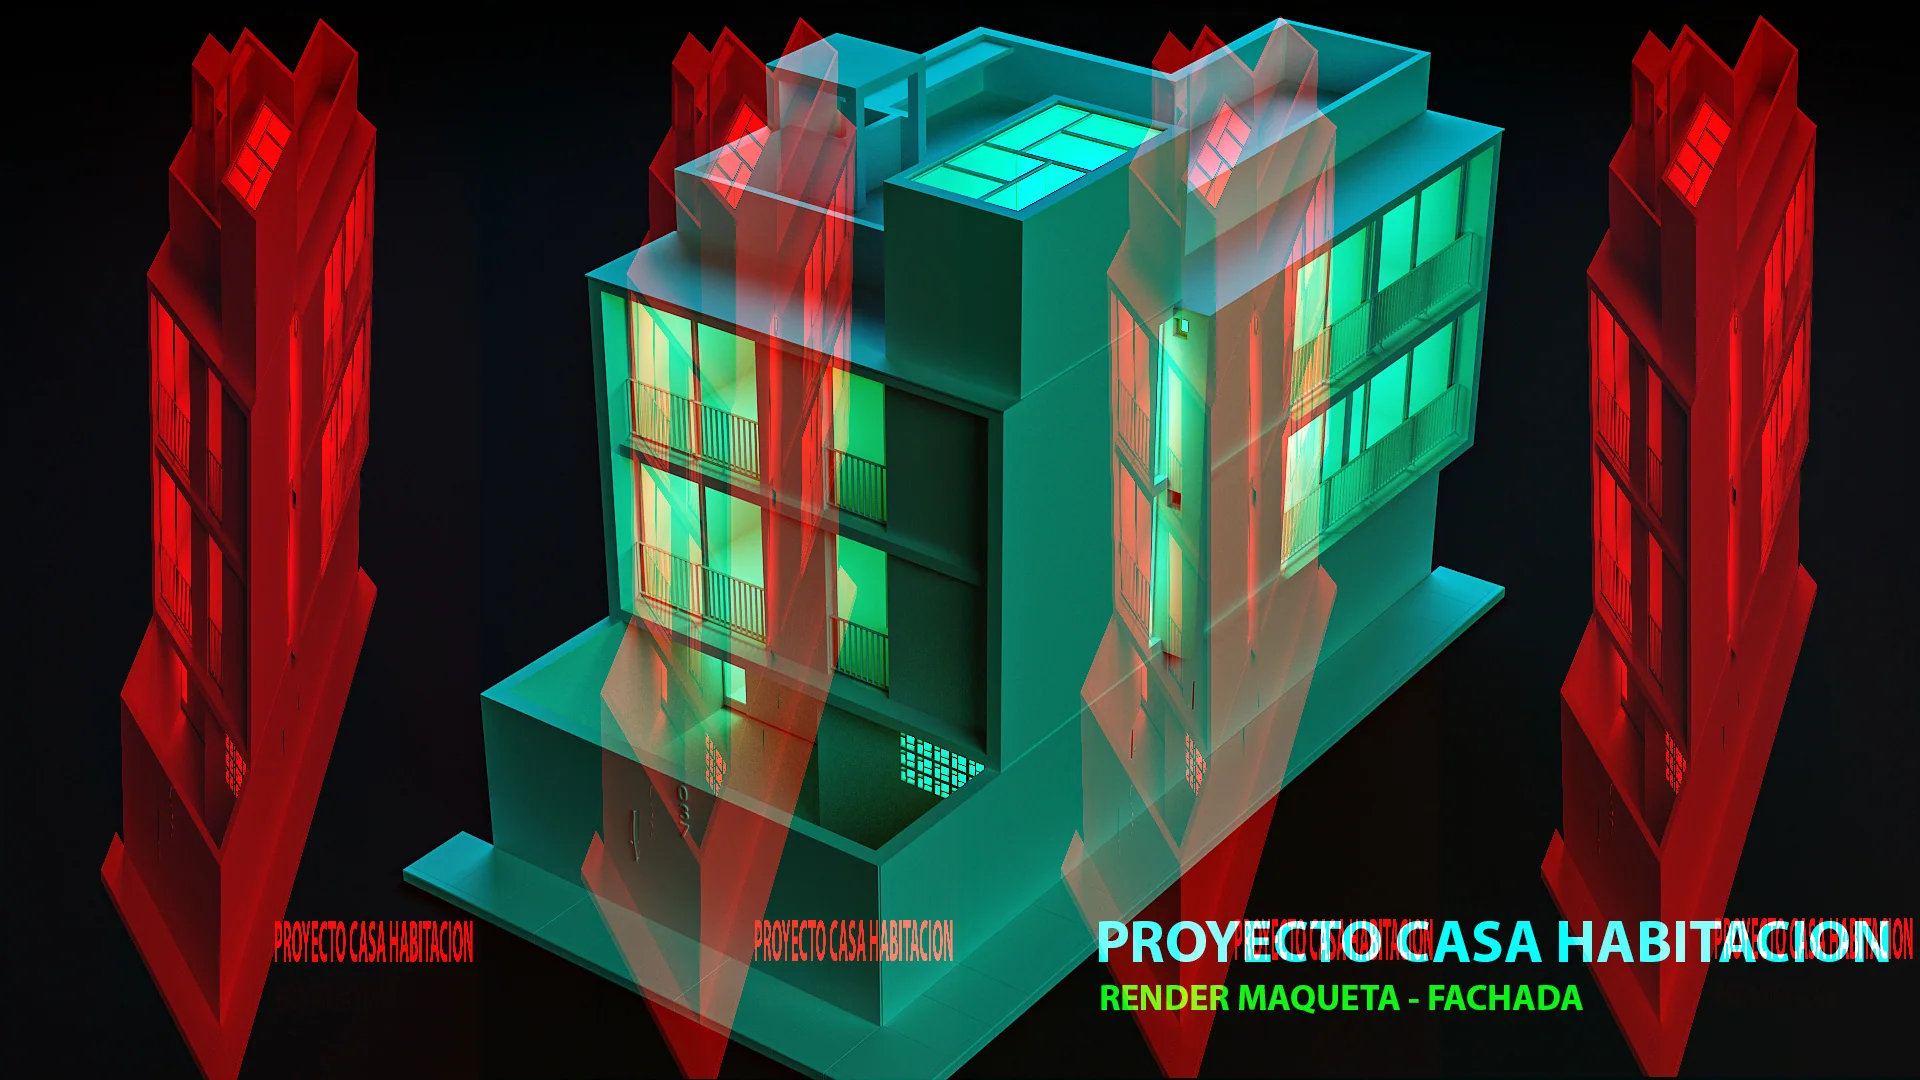
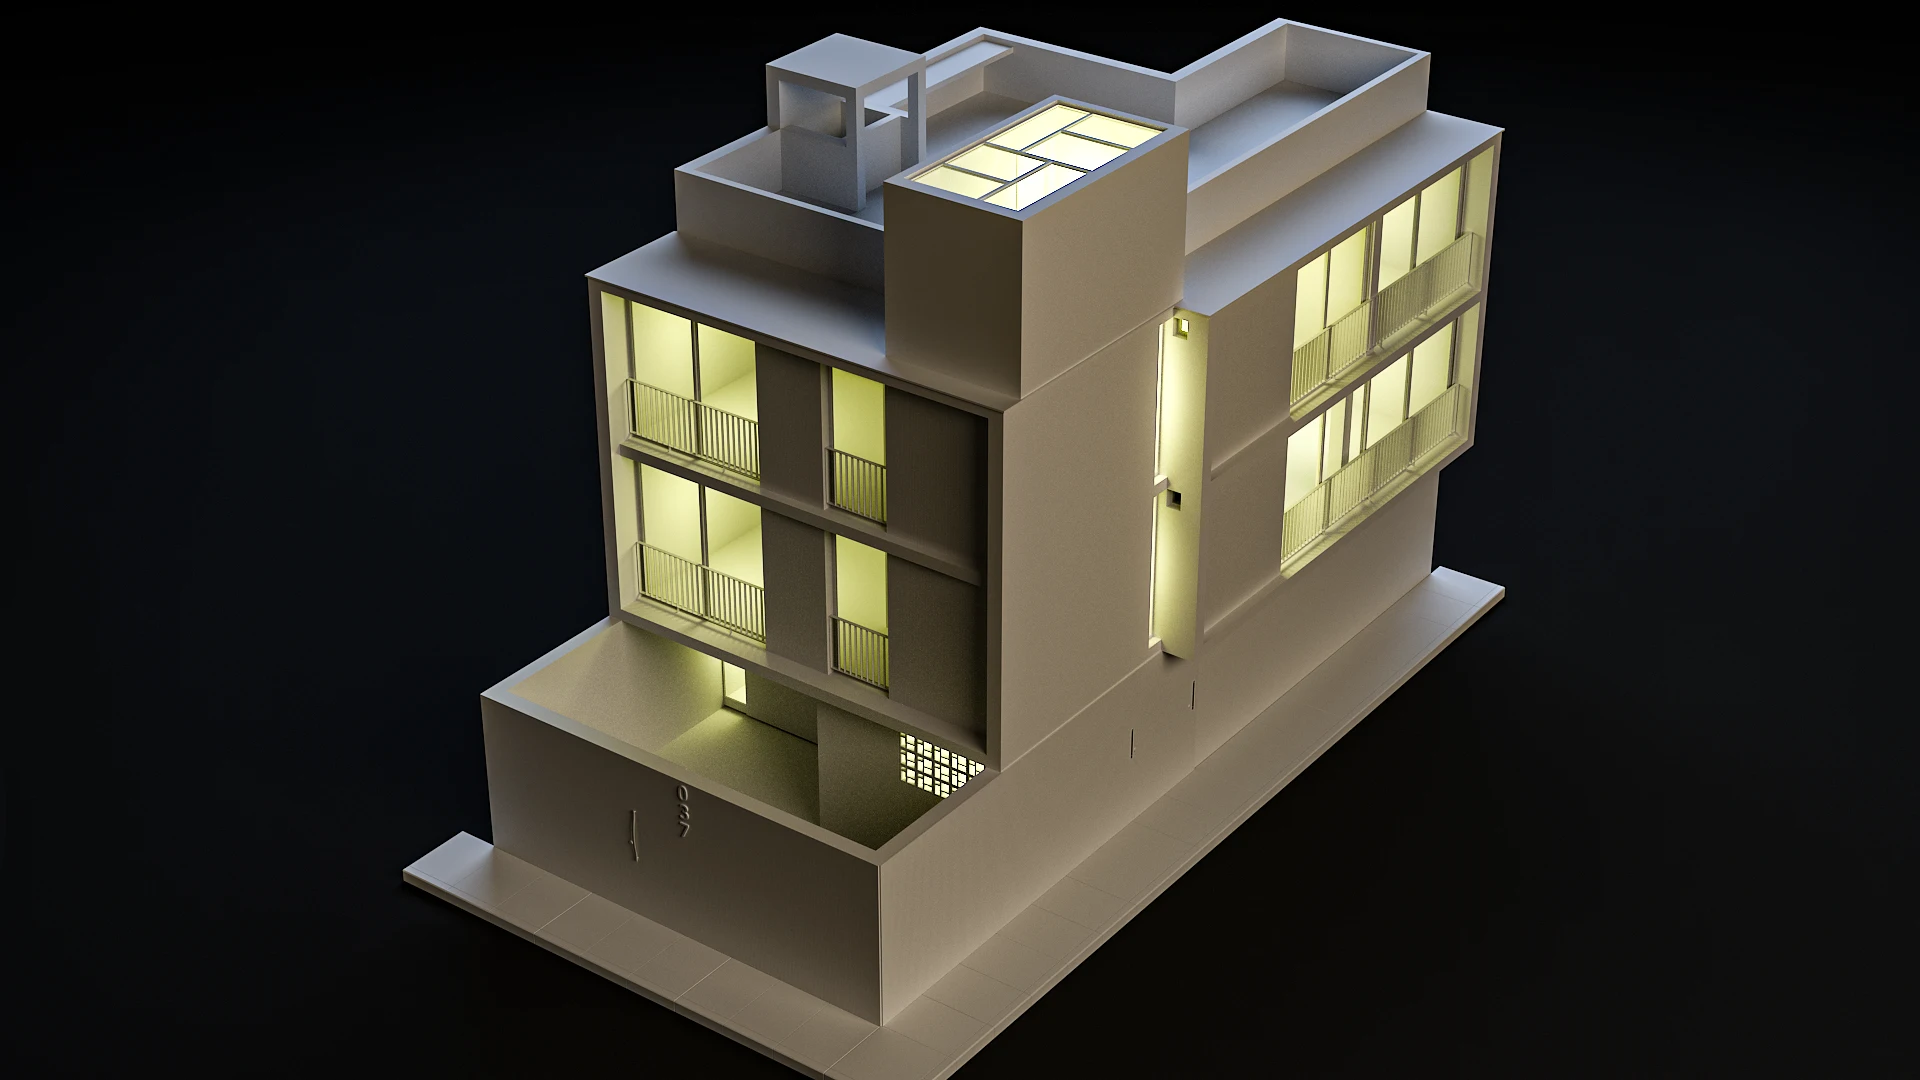
Actualización del portafolio

diff --git a/index.html b/index.html
@@ -4,12 +4,12 @@
   <meta charset="utf-8">
   <meta name="viewport" content="width=device-width, initial-scale=1, viewport-fit=cover">
   <meta name="theme-color" content="#dce9ed">
-  <meta name="description" content="Arq. Luis Ángel García. Arquitectura funcional, diseño de viviendas, casas de campo, proyectos ejecutivos, visualización realista y seguimiento de inversiones.">
+  <meta name="description" content="Arq. Luis Ángel García. Arquitectura para vivir, diseño de viviendas, casas de campo, proyectos ejecutivos, visualización realista y seguimiento de inversiones.">
   <meta property="og:type" content="website">
-  <meta property="og:title" content="arqluisgarcia | Arquitectura funcional">
+  <meta property="og:title" content="arqluisgarcia | Arquitectura para vivir">
   <meta property="og:description" content="Espacios bien pensados, soluciones que funcionan. Conoce proyectos y servicios del Arq. Luis Ángel García.">
   <meta property="og:image" content="assets/casa-jardin/01.webp">
-  <title>arqluisgarcia — Arquitectura funcional</title>
+  <title>arqluisgarcia — Arquitectura para vivir</title>
   <link rel="icon" href="favicon.svg" type="image/svg+xml">
   <link rel="stylesheet" href="styles.css">
   <script src="project-data.js" defer></script>
@@ -20,7 +20,7 @@
   <header class="site-header" id="arriba">
     <a class="brand" href="index.html" aria-label="arqluisgarcia, ir al inicio">
       <span class="brand-mark">LG<span class="brand-line"></span></span>
-      <span class="brand-copy"><strong>Luis Ángel García</strong><small>ARQUITECTURA FUNCIONAL</small></span>
+      <span class="brand-copy"><strong>Luis Ángel García</strong><small>ARQUITECTURA PARA VIVIR</small></span>
     </a>
     <nav class="desktop-nav" aria-label="Navegación principal">
       <a href="#proyectos">Proyectos</a><a href="#enfoque">Enfoque</a><a href="#servicios">Servicios</a><a href="#seguimiento">Inversiones</a><a href="#contacto">Contacto</a>
@@ -61,8 +61,8 @@
     </section>
 
     <section class="manifesto" id="enfoque">
-      <div class="manifesto-top"><span class="eyebrow eyebrow-light">02 / SOBRE MÍ</span><span>LG — ARQUITECTURA FUNCIONAL</span></div>
-      <div class="manifesto-grid"><h2>Diseñar no es<br><em>ocupar todo.</em></h2><div><p>Soy el Arq. Luis Ángel García. Desarrollo propuestas arquitectónicas, planos, modelados y visualizaciones, priorizando la circulación, iluminación, ventilación, privacidad y aprovechamiento real de cada ambiente.</p><p>No siempre necesitas construir más. Una buena distribución puede dar amplitud a los espacios que ya tienes.</p><a href="#soluciones" class="light-link">Conoce mi enfoque <span aria-hidden="true">↗</span></a></div></div>
+      <div class="manifesto-top"><span class="eyebrow eyebrow-light">02 / SOBRE MÍ</span><span>LG — ARQUITECTURA PARA VIVIR</span></div>
+      <div class="manifesto-grid"><h2>Diseñar no es<br><em>ocupar todo.</em></h2><div><p>Soy el Arq. Luis Ángel García. Diseño viviendas para que, al volver del trabajo, puedas desconectarte de la rutina y sentir que estás en otro lugar.</p><p>No siempre necesitas construir más. Con una buena distribución, tu casa puede sentirse más amplia y cómoda.</p><a href="#soluciones" class="light-link">Conoce mi enfoque <span aria-hidden="true">↗</span></a></div></div>
       <div class="manifesto-tags"><span>01. FUNCIONALIDAD</span><span>02. PROPORCIÓN</span><span>03. LUZ NATURAL</span><span>04. VIDA COTIDIANA</span></div>
     </section>
 
@@ -84,9 +84,13 @@
 
     <section class="section advisory" id="asesoria"><div><p class="eyebrow">05 / ASESORÍA ONLINE</p><h2>Una idea puede empezar<br><em>con una conversación.</em></h2></div><div class="advisory-right"><p>Envíame fotografías, medidas, planos o un croquis. Revisaremos la necesidad y definiremos el alcance antes de desarrollar una propuesta arquitectónica.</p><div class="steps"><div><span>01</span>Cuéntame qué necesitas</div><div><span>02</span>Comparte medidas y fotografías</div><div><span>03</span>Definimos alcance y presupuesto</div><div><span>04</span>Desarrollamos la propuesta acordada</div></div><p class="small-note">La asesoría inicial no sustituye una evaluación estructural o una visita técnica cuando sea necesaria.</p><a class="text-link" href="https://wa.me/51942263803?text=Hola%2C%20quiero%20consultar%20una%20asesor%C3%ADa%20arquitect%C3%B3nica." target="_blank" rel="noopener noreferrer">Consultar por WhatsApp ↗</a></div></section>
 
-    <section class="investments" id="seguimiento"><div class="investments-head"><p class="eyebrow eyebrow-light">06 / GESTIÓN TÉCNICA</p><h2>Seguimiento de proyectos<br><em>e inversiones públicas.</em></h2><p>Información técnica y presupuestal para conocer el estado de proyectos y obras.</p></div><div class="investment-items"><div><span>01</span><strong>Seguimiento físico y financiero</strong><small>Avance de proyectos, valorizaciones y reportes de obra.</small></div><div><span>02</span><strong>Ejecución presupuestal</strong><small>Consulta Amigable MEF, PIM, certificación y devengados.</small></div><div><span>03</span><strong>Banco de Inversiones y SSI</strong><small>Información de inversiones y estado situacional.</small></div><div><span>04</span><strong>Transparencia y documentación</strong><small>Revisión de información pública y reportes de seguimiento.</small></div></div><a class="light-link" href="#contacto">Solicitar información ↗</a></section>
+    <section class="investments" id="seguimiento"><div class="investments-head"><p class="eyebrow eyebrow-light">06 / INVERSIONES PÚBLICAS</p><h2>Seguimiento de proyectos<br><em>e inversiones públicas.</em></h2><p>Información técnica y presupuestal para conocer el estado de proyectos y obras.</p></div><div class="investment-items"><div><span>01</span><strong>Seguimiento físico y financiero</strong><small>Avance de proyectos, valorizaciones y reportes de obra.</small></div><div><span>02</span><strong>Ejecución presupuestal</strong><small>Consulta Amigable MEF, PIM, certificación y devengados.</small></div><div><span>03</span><strong>Banco de Inversiones y SSI</strong><small>Información de inversiones y estado situacional.</small></div><div><span>04</span><strong>Transparencia y documentación</strong><small>Revisión de información pública y reportes de seguimiento.</small></div></div><a class="light-link" href="#contacto">Solicitar información ↗</a></section>
 
-    <section class="contact section" id="contacto"><div class="contact-title"><p class="eyebrow">07 / CONTACTO</p><h2>Hagamos espacio<br><em>para tu proyecto.</em></h2><p>Diseño de viviendas, optimización de ambientes y asesoría arquitectónica. Escríbeme y conversemos sobre tu idea.</p><a href="https://wa.me/51942263803?text=Hola%2C%20quisiera%20consultar%20por%20un%20servicio%20de%20arquitectura." class="btn btn-dark" target="_blank" rel="noopener noreferrer">Escribir por WhatsApp ↗</a></div><div class="contact-panel"><p class="contact-overline">DATOS PROFESIONALES</p><a class="contact-big" href="tel:+51942263803">+51 942 263 803</a><a href="mailto:arqluisanghels@gmail.com">arqluisanghels@gmail.com</a><div class="contact-social"><a href="https://www.instagram.com/luis.anghell/" target="_blank" rel="noopener noreferrer">Instagram ↗</a><a href="https://www.behance.net/arqluisgarciag" target="_blank" rel="noopener noreferrer">Behance ↗</a></div><div class="contact-form-wrap"><h3>O deja un mensaje</h3><form id="contact-form"><label>Nombre<input name="nombre" autocomplete="name" required placeholder="Tu nombre"></label><label>Correo<input name="correo" type="email" autocomplete="email" required placeholder="tu@correo.com"></label><label>Servicio<select name="servicio" required><option value="">Selecciona un servicio</option><option>Diseño de vivienda</option><option>Casa de campo o playa</option><option>Redistribución / remodelación</option><option>Visualización 3D</option><option>Asesoría online</option><option>Seguimiento de proyectos</option></select></label><label>Cuéntame tu proyecto<textarea name="mensaje" required placeholder="¿Qué deseas diseñar o mejorar?" rows="3"></textarea></label><button type="submit" class="btn btn-dark">Preparar correo ↗</button><p class="form-note">Se abrirá tu correo con el mensaje preparado; podrás adjuntar planos y fotografías antes de enviarlo. Este formulario no almacena datos.</p></form></div></div></section>
+    <section class="section consulting"><h2>CONSULTORÍA Y AUDITORÍA DE OBRAS</h2>
+      <h3>Consultoría en obras de saneamiento</h3>
+      <p>Contamos con profesionales con años de experiencia en sistemas de agua potable y alcantarillado, pozos tubulares, unidades básicas de saneamiento (UBS), reservorios y plantas de tratamiento de aguas residuales (PTAR) y de agua potable (PTAP).</p>
+      <h3>Especialistas en Auditoría de obras de ingeniería.</h3></section>
+    <section class="contact section" id="contacto"><div class="contact-title"><p class="eyebrow">07 / CONTACTO</p><h2>Hagamos espacio<br><em>para tu proyecto.</em></h2><p>Diseño de viviendas, optimización de ambientes y asesoría arquitectónica. Escríbeme y conversemos sobre tu idea.</p><button type="button" class="btn btn-dark" id="open-contact">Contáctanos</button></div><div class="contact-panel"><div class="contact-social"><a href="https://www.instagram.com/luis.anghell/" target="_blank" rel="noopener noreferrer">Instagram ↗</a><a href="https://www.behance.net/arqluisgarciag" target="_blank" rel="noopener noreferrer">Behance ↗</a></div></div><dialog id="contact-dialog" aria-labelledby="contact-heading"><form method="dialog"><button class="dialog-close" aria-label="Cerrar">×</button></form><h2 id="contact-heading">Contáctanos</h2><a href="https://wa.me/51942263803?text=Hola%2C%20quisiera%20consultar%20por%20un%20servicio%20de%20arquitectura." class="btn btn-dark" target="_blank" rel="noopener noreferrer">Escribir por WhatsApp ↗</a><details><summary>Solicitar una cotización por correo</summary><div class="contact-form-wrap"><form id="contact-form"><label>Nombre<input name="nombre" autocomplete="name" required placeholder="Tu nombre"></label><label>Correo<input name="correo" type="email" autocomplete="email" required placeholder="tu@correo.com"></label><label>Cuéntame tu proyecto<textarea name="mensaje" required placeholder="¿Qué deseas diseñar o mejorar?" rows="3"></textarea></label><button type="submit" class="btn btn-dark">Preparar correo ↗</button><p class="form-note">Se abrirá tu correo con el mensaje preparado; podrás adjuntar planos y fotografías antes de enviarlo. Este formulario no almacena datos.</p></form></div></details></dialog></section>
   </main>
   <footer class="site-footer"><div><a class="footer-brand" href="#arriba">LG / arqluisgarcia</a><p>Espacios bien pensados, soluciones que funcionan.</p></div><div><a href="#proyectos">Proyectos</a><a href="#servicios">Servicios</a><a href="#contacto">Contacto</a></div><small>© <span class="copyright-year"></span> Arq. Luis Ángel García. Portafolio profesional.</small></footer>
   <a class="whatsapp-floating" href="https://wa.me/51942263803" aria-label="Contactar por WhatsApp" target="_blank" rel="noopener noreferrer"><svg viewBox="0 0 24 24" aria-hidden="true"><path fill="currentColor" d="M20.5 3.5A11 11 0 0 0 3.2 16.7L2 22l5.5-1.3A11 11 0 1 0 20.5 3.5ZM12 20a8.1 8.1 0 0 1-4.2-1.2l-.3-.2-3.2.7.7-3.1-.2-.3A8.1 8.1 0 1 1 12 20Zm4.4-6.1c-.2-.1-1.4-.7-1.6-.8-.2-.1-.4-.1-.6.2l-.7.8c-.2.2-.3.2-.6.1a6.7 6.7 0 0 1-3.2-2.8c-.2-.3.2-.3.6-1.1.1-.2 0-.4 0-.5l-.8-1.8c-.2-.4-.3-.3-.5-.3h-.5c-.2 0-.5.1-.7.4-.2.2-.9.9-.9 2.1 0 1.2.9 2.4 1 2.6 1.3 1.8 2.7 3.1 4.6 3.8 1.5.6 2.1.5 2.8.4.4-.1 1.4-.6 1.6-1.2.2-.6.2-1.1.1-1.2Z"/></svg></a>

diff --git a/proyecto.html b/proyecto.html
@@ -13,7 +13,7 @@
 </head>
 <body data-page="proyecto">
   <a class="skip-link" href="#contenido">Ir al contenido</a>
-  <header class="site-header" id="arriba"><a class="brand" href="index.html" aria-label="arqluisgarcia, volver al inicio"><span class="brand-mark">LG<span class="brand-line"></span></span><span class="brand-copy"><strong>Luis Ángel García</strong><small>ARQUITECTURA FUNCIONAL</small></span></a><nav class="desktop-nav" aria-label="Navegación principal"><a href="index.html#proyectos">Proyectos</a><a href="index.html#enfoque">Enfoque</a><a href="index.html#servicios">Servicios</a><a href="index.html#seguimiento">Inversiones</a><a href="index.html#contacto">Contacto</a></nav><button type="button" class="menu-toggle" aria-controls="menu-movil" aria-expanded="false" aria-label="Abrir menú"><span></span><span></span><span></span></button></header>
+  <header class="site-header" id="arriba"><a class="brand" href="index.html" aria-label="arqluisgarcia, volver al inicio"><span class="brand-mark">LG<span class="brand-line"></span></span><span class="brand-copy"><strong>Luis Ángel García</strong><small>ARQUITECTURA PARA VIVIR</small></span></a><nav class="desktop-nav" aria-label="Navegación principal"><a href="index.html#proyectos">Proyectos</a><a href="index.html#enfoque">Enfoque</a><a href="index.html#servicios">Servicios</a><a href="index.html#seguimiento">Inversiones</a><a href="index.html#contacto">Contacto</a></nav><button type="button" class="menu-toggle" aria-controls="menu-movil" aria-expanded="false" aria-label="Abrir menú"><span></span><span></span><span></span></button></header>
   <nav class="mobile-nav" id="menu-movil" aria-label="Menú móvil" hidden><a href="index.html">Inicio</a><a href="index.html#proyectos">Proyectos</a><a href="index.html#enfoque">Sobre mí</a><a href="index.html#servicios">Servicios</a><a href="index.html#soluciones">Soluciones funcionales</a><a href="index.html#asesoria">Asesoría online</a><a href="index.html#seguimiento">Seguimiento de inversiones</a><a href="index.html#contacto">Contacto</a></nav>
   <main id="contenido" class="project-page">
     <div class="project-breadcrumb"><a href="index.html#proyectos">← Volver a proyectos</a><span>PORTAFOLIO / <span id="project-position">01</span></span></div>
@@ -23,7 +23,7 @@
       <div class="viewer-caption"><span id="image-label">Fachada</span><span id="image-count">01 / 14</span></div><div class="thumbnails" id="thumbnails" aria-label="Miniaturas de la galería"></div>
     </section>
     <section class="project-facts"><div><span>PROYECTO</span><strong id="fact-name">—</strong></div><div id="fact-location-row"><span>UBICACIÓN</span><strong id="fact-location">—</strong></div><div id="fact-area-row"><span>ÁREA</span><strong id="fact-area">—</strong></div><div><span>REPRESENTACIÓN</span><strong>Modelado 3D y visualización arquitectónica</strong></div></section>
-    <section class="project-description"><div><p class="eyebrow">DESCRIPCIÓN ARQUITECTÓNICA</p><h2>El proyecto,<br><em>en palabras.</em></h2></div><div><p id="original-word-text" class="word-text"></p><p class="source-note">Descripción original proporcionada para este proyecto. Se conserva su redacción y contenido.</p></div></section>
+    <section class="project-description"><div><p class="eyebrow">DESCRIPCIÓN ARQUITECTÓNICA</p><h2>El proyecto,<br><em>en palabras.</em></h2></div><div><p id="original-word-text" class="word-text"></p></div></section>
     <div class="project-end"><a class="text-link" href="index.html#proyectos">← Todos los proyectos</a><a class="btn btn-dark" href="index.html#contacto">Consultar un proyecto similar ↗</a></div>
   </main>
   <div class="lightbox" id="lightbox" role="dialog" aria-modal="true" aria-label="Imagen ampliada" hidden><button class="lightbox-close" aria-label="Cerrar imagen" type="button">×</button><button class="lightbox-prev" aria-label="Imagen anterior" type="button">←</button><img id="lightbox-image" alt="Vista ampliada del proyecto"><button class="lightbox-next" aria-label="Imagen siguiente" type="button">→</button><span id="lightbox-counter"></span></div>

diff --git a/project-data.js b/project-data.js
@@ -72,8 +72,8 @@ window.ARQLUISGARCIA_PROYECTOS = [
     "id": "casa-habitacion",
     "nombre": "Casa Habitación",
     "tipo": "Vivienda",
-    "ubicacion": "",
-    "area": "",
+    "ubicacion": "Esquivel – Huaral",
+    "area": "120 m²",
     "numero": "02",
     "tipo_obra": "Vivienda / Uso residencial",
     "descripcionOriginal": "La propuesta arquitectónica responde a las necesidades del propietario donde los niveles superiores sean destinados al alquiler de dormitorios + lavandería y el 1er nivel destinado al área social, de la misma manera la familia quería espacios libres en el ingreso y en la zona posterior. Compuesto por un volumen matriz donde se manifiesta las texturas de lamas de madera dándole un aspecto moderno, fresco y acogedor.",
@@ -149,7 +149,7 @@ window.ARQLUISGARCIA_PROYECTOS = [
     "nombre": "Casa Unifamiliar",
     "tipo": "Vivienda unifamiliar",
     "ubicacion": "Huaral · Residencial El Olivar",
-    "area": "248.94 m² (terreno)",
+    "area": "248.94 m²",
     "numero": "03",
     "tipo_obra": "Vivienda / Diseño residencial",
     "descripcionOriginal": "Se Diseño esta vivienda priorizando la privacidad en la fachada que da hacia la avenida, por lo que en el primer nivel no se incorporaron ventanas, evitando exposiciones directas al exterior. Al mismo tiempo, se buscó una conexión fluida con los espacios interiores. La volumetría combina concreto con amplias mamparas que permiten vistas hacia la terraza interior, convirtiéndola en el eje central y generando un ambiente de amplitud. Además, el kitchen de concepto abierto, con una isla integrada en la sala-comedor, refuerza esta conexión y ofrece visuales directas hacia la terraza.",
@@ -273,7 +273,7 @@ window.ARQLUISGARCIA_PROYECTOS = [
     "nombre": "Casa Patio",
     "tipo": "Vivienda",
     "ubicacion": "Huaral · Zona Los Naturales",
-    "area": "190 m² (según descripción)",
+    "area": "190 m²",
     "numero": "04",
     "tipo_obra": "Vivienda / Espacios interiores",
     "descripcionOriginal": "El proyecto se enfoca en la privacidad de la familia, en un entorno urbano definido por un pasaje angosto.\nLa vivienda se organiza en torno a una terraza con áreas verdes y un muro de piedra rústica, que es el corazón del hogar.\nEl kitchen de concepto abierto, donde se puede cocinar y compartir, ofrece vistas directas a la terraza y al jardín frontal, se integra con la sala, conectados por mamparas abatibles, ampliando el espacio y dejando entrar la luz natural.\nCASA HS de 190m2, el encargo fue desarrollar la vivienda en el 1er nivel y el 2do nivel es para el alquiler de cuartos.\nLos acabados en blanco y la vegetación generan un contraste refrescante, perfecto para el día a día. El diseño, sobrio y funcional, prioriza la armonía y la privacidad.",

diff --git a/styles.css b/styles.css
@@ -34,3 +34,14 @@
 
 /* Filtros discretos del portafolio */
 .project-filters{display:flex;align-items:center;gap:9px;margin:0 0 28px;flex-wrap:wrap}.filter{background:transparent;border:1px solid #bdd0d3;color:#506c74;padding:10px 15px;font-size:12px;letter-spacing:.02em}.filter span{font-variant-numeric:tabular-nums;margin-left:5px}.filter.active,.filter:hover{background:#23434e;color:white;border-color:#23434e}@media(max-width:600px){.project-filters{gap:6px;margin-bottom:22px}.filter{padding:9px 10px;font-size:11px}}
+
+.consulting h2 {font-size:clamp(26px,4vw,52px);max-width:24ch}
+.consulting h3 {margin:1.5em 0 .5em}
+.consulting p {max-width:72ch;line-height:1.7}
+#contact-dialog {margin:auto;border:0;border-radius:8px;padding:30px;width:min(440px,92vw);max-height:85dvh;overflow:auto;color:var(--dark2)}
+#contact-dialog::backdrop {background:rgb(0 0 0 / .55)}
+#contact-dialog h2 {font-size:30px;margin:0 0 20px}
+.dialog-close {float:right;font-size:24px;padding:0 8px;cursor:pointer}
+#contact-dialog details {margin-top:20px}
+#contact-dialog summary {cursor:pointer;font-weight:600}
+#detail-image[src$="/casa-habitacion/15.webp"], #detail-image[src$="/casa-habitacion/16.webp"] {object-fit:contain}

diff --git a/app.js b/app.js
@@ -109,16 +109,16 @@
     frame.addEventListener('touchend', e => { if (touchStart === null) return; const delta = e.changedTouches[0].clientX - touchStart; if (Math.abs(delta) > 42) {show(current + (delta > 0 ? -1 : 1));start();} touchStart=null; }, {passive:true});
     show(0);
     start();
+    one('#open-contact').addEventListener('click', () => one('#contact-dialog').showModal());
     const form = one('#contact-form');
     if (form) form.addEventListener('submit', event => {
       event.preventDefault();
       if (!form.reportValidity()) return;
       const data = new FormData(form);
-      const subject = `Consulta web: ${word(data.get('servicio'))}`;
+      const subject = 'Solicitud de cotización';
       const body = [
         `Nombre: ${word(data.get('nombre'))}`,
         `Correo: ${word(data.get('correo'))}`,
-        `Servicio: ${word(data.get('servicio'))}`,
         '', 'Mensaje:', word(data.get('mensaje')),
         '', 'Adjunto los archivos del proyecto desde mi correo, si corresponde.'
       ].join('\n');
